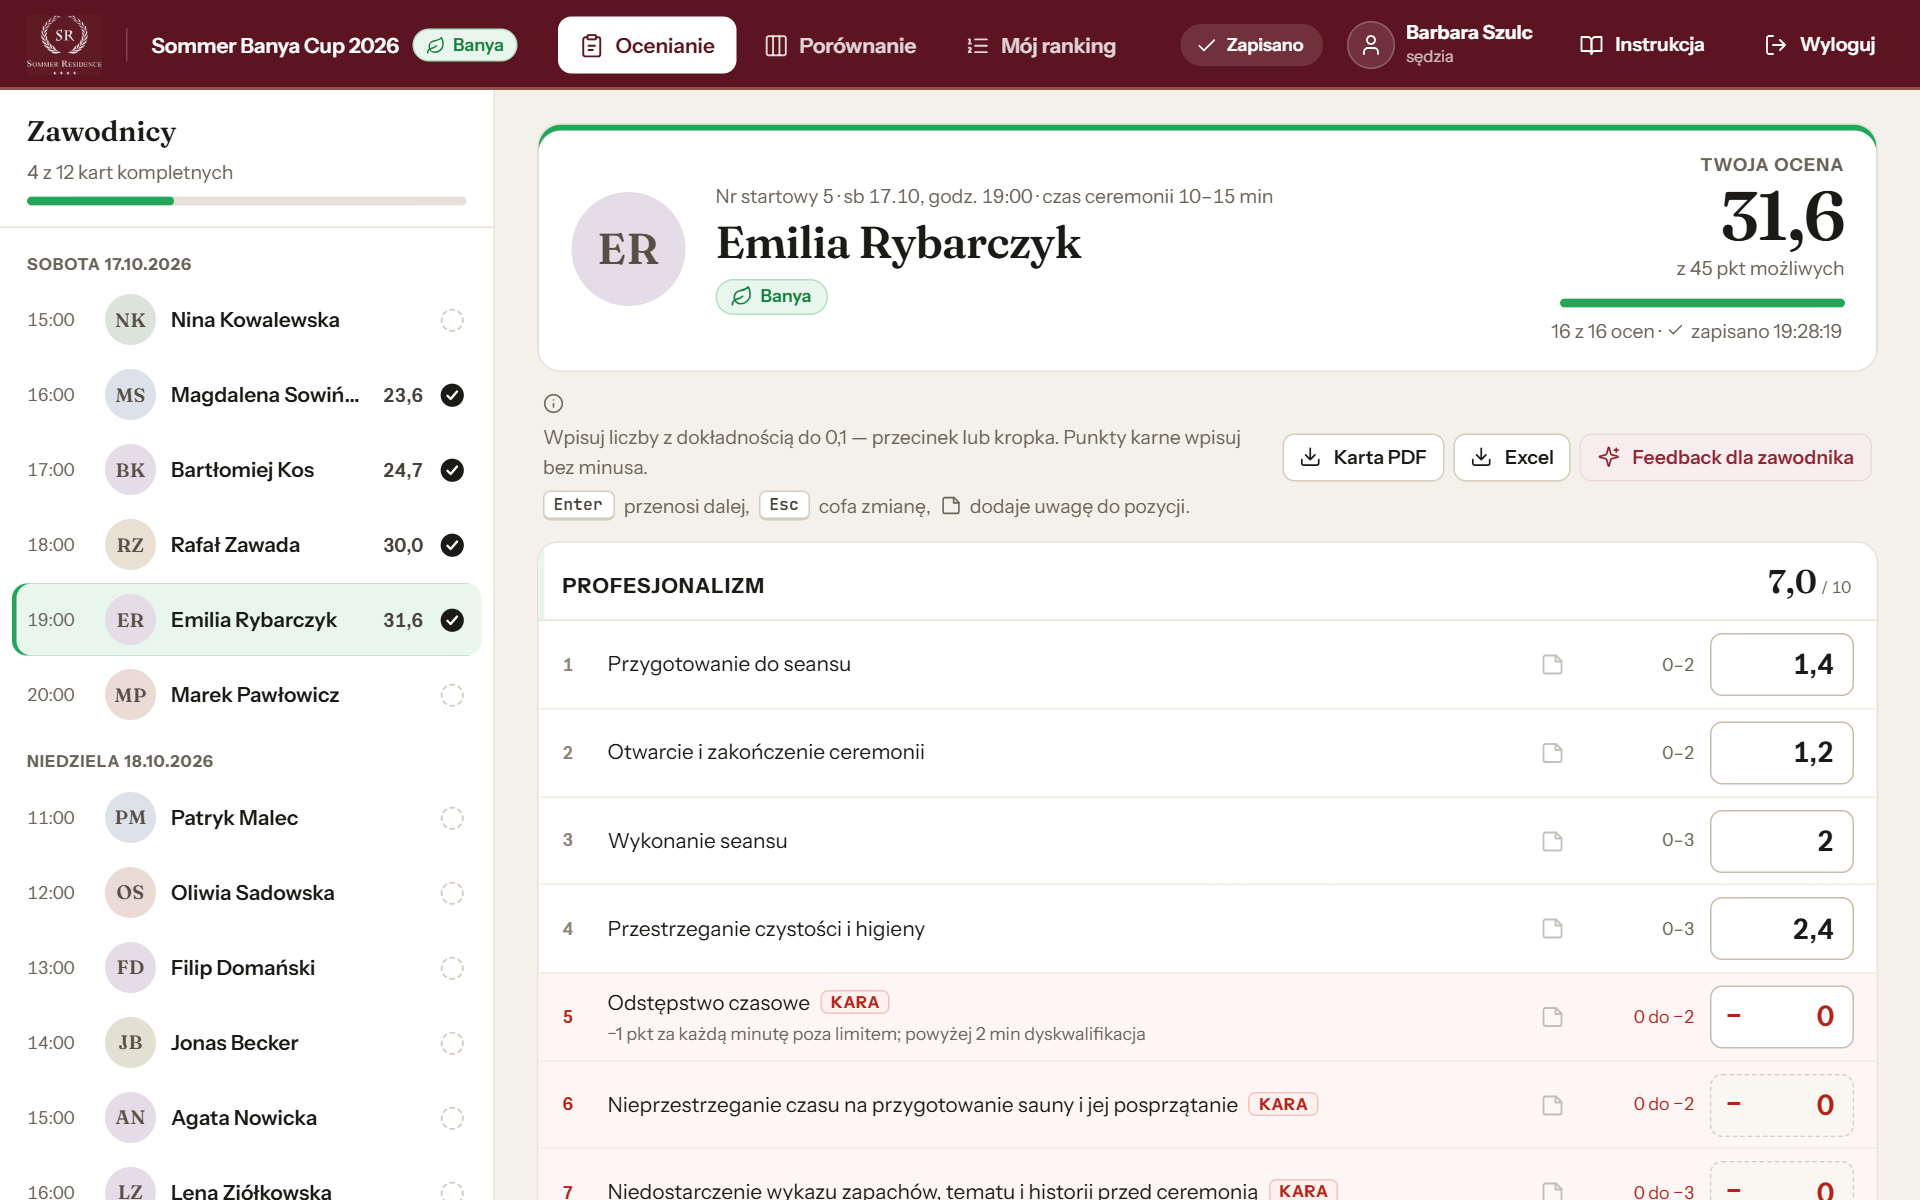
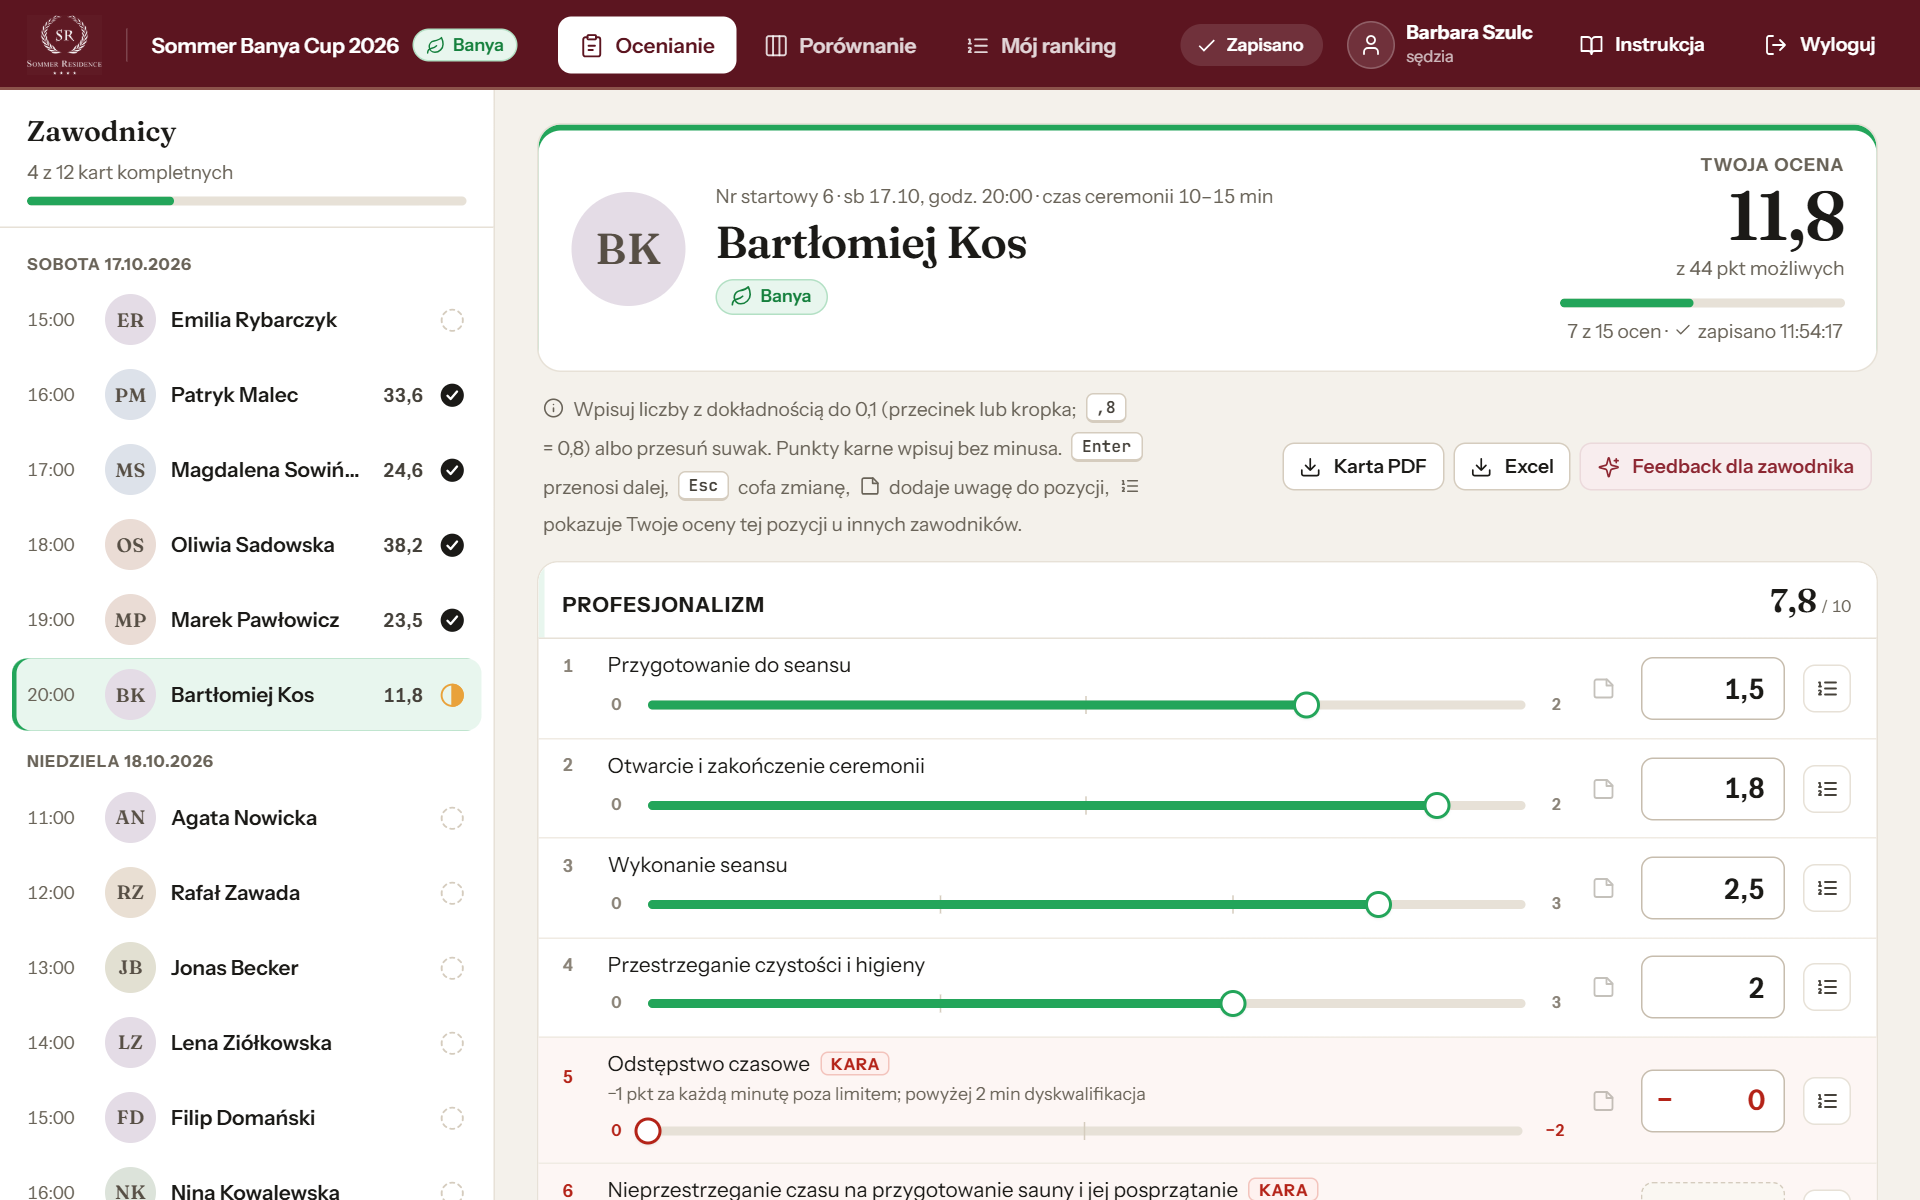
Turniej Trzech Saun: instrukcja dla sędziów — nowe funkcje karty
Suwak, przycisk ocen tej pozycji u innych zawodników, wpis „,8”, poprawianie ocen
w porównaniu, kary z suwakiem. Nowe zrzuty: ekran oceniania (9 znaczników),
wpisywanie, kary i uwagi, porównanie z poprawką, okienko ocen innych zawodników.
Skill: wskazówki do zrzutów elementów position: fixed i ustawiania danych demo.

diff --git a/turniej-trzech-saun/instrukcja/index.html b/turniej-trzech-saun/instrukcja/index.html
@@ -165,6 +165,8 @@
     <symbol id="i-arrow" viewBox="0 0 24 24"><path d="M5 12h14M13 5l7 7-7 7"/></symbol>
     <symbol id="i-note" viewBox="0 0 24 24"><path d="M15.5 3H5a2 2 0 0 0-2 2v14a2 2 0 0 0 2 2h14a2 2 0 0 0 2-2V8.5z"/><path d="M15 3v6h6"/></symbol>
     <symbol id="i-note-text" viewBox="0 0 24 24"><path d="M15.5 3H5a2 2 0 0 0-2 2v14a2 2 0 0 0 2 2h14a2 2 0 0 0 2-2V8.5z"/><path d="M15 3v6h6M7 12h6M7 16h9"/></symbol>
+    <symbol id="i-ranking" viewBox="0 0 24 24"><path d="M10 6h11M10 12h11M10 18h11M4 6h1v4M4 10h2M6 18H4c0-1 2-2 2-3s-1-1.5-2-1"/></symbol>
+    <symbol id="i-pencil" viewBox="0 0 24 24"><path d="M17 3a2.85 2.83 0 1 1 4 4L7.5 20.5 2 22l1.5-5.5Z"/></symbol>
     <symbol id="i-refresh" viewBox="0 0 24 24"><path d="M3 12a9 9 0 0 1 9-9 9.75 9.75 0 0 1 6.74 2.74L21 8"/><path d="M21 3v5h-5M21 12a9 9 0 0 1-9 9 9.75 9.75 0 0 1-6.74-2.74L3 16"/><path d="M8 16H3v5"/></symbol>
   </svg>
 
@@ -211,7 +213,8 @@
           <li><svg class="ic"><use href="#i-check"/></svg><span>Zaloguj się <b>kodem z kartki</b> od supervisora.</span></li>
           <li><svg class="ic"><use href="#i-check"/></svg><span>Wybierz zawodnika z <b>listy po lewej</b> i wpisuj punkty.</span></li>
           <li><svg class="ic"><use href="#i-check"/></svg><span>Zapis jest <b>automatyczny</b> — nie ma przycisku „Zapisz”.</span></li>
-          <li><svg class="ic"><use href="#i-check"/></svg><span>Liczby z dokładnością do <b>0,1</b> — przecinek albo kropka.</span></li>
+          <li><svg class="ic"><use href="#i-check"/></svg><span>Liczby z dokładnością do <b>0,1</b> — przecinek albo kropka; <kbd>,8</kbd> to 0,8. Zamiast wpisywać, możesz przesunąć <b>suwak</b> pod pozycją.</span></li>
+          <li><svg class="ic"><use href="#i-check"/></svg><span>Przycisk <svg class="ic"><use href="#i-ranking"/></svg> obok pola pokazuje <b>Twoje oceny tej pozycji</b> u zawodników ocenionych wcześniej.</span></li>
           <li><svg class="ic"><use href="#i-check"/></svg><span>Punkty karne wpisuj <b>bez minusa</b> — system sam je odejmie.</span></li>
           <li><svg class="ic"><use href="#i-check"/></svg><span><kbd>Enter</kbd> przenosi do następnego pola, <kbd>Esc</kbd> cofa zmianę.</span></li>
           <li><svg class="ic"><use href="#i-check"/></svg><span>Znacznik <span class="chip ok"><svg class="ic"><use href="#i-check"/></svg>Zapisano</span> u góry = wszystko jest w bazie.</span></li>
@@ -264,13 +267,15 @@
         <figure>
           <div class="shot">
             <img src="img/02-ekran-oceny.png" width="1920" height="1200" alt="Ekran oceniania: lista zawodników po lewej, karta oceny zawodnika po prawej" loading="lazy">
-            <span class="pin" style="left:19.3%;top:11%">1</span>
-            <span class="pin" style="left:24.5%;top:49%">2</span>
-            <span class="pin" style="left:36.5%;top:15%">3</span>
-            <span class="pin" style="left:80%;top:14%">4</span>
-            <span class="pin" style="left:82.2%;top:33.5%">5</span>
-            <span class="pin" style="left:80.8%;top:51.2%">6</span>
-            <span class="pin" style="left:93%;top:51.2%">7</span>
+            <span class="pin" style="left:25.3%;top:16.7%">1</span>
+            <span class="pin" style="left:21%;top:57.9%">2</span>
+            <span class="pin" style="left:36%;top:16.3%">3</span>
+            <span class="pin" style="left:88.2%;top:18%">4</span>
+            <span class="pin" style="left:65.5%;top:38.9%">5</span>
+            <span class="pin" style="left:83.5%;top:57.4%">6</span>
+            <span class="pin" style="left:89.1%;top:61.6%">7</span>
+            <span class="pin" style="left:62%;top:60.5%">8</span>
+            <span class="pin" style="left:95.1%;top:57.4%">9</span>
           </div>
           <figcaption>Ekran oceniania (wersja demonstracyjna, zawodnicy fikcyjni).</figcaption>
         </figure>
@@ -281,7 +286,9 @@
           <li><b class="k">4</b><span><b>Twoja ocena:</b> suma na bieżąco, postęp wypełniania i godzina ostatniego zapisu.</span></li>
           <li><b class="k">5</b><span><b>Karta PDF, Excel</b> i <b>Feedback dla zawodnika</b> — szkic, zatwierdzenie (rozdziały <a href="#karta">7</a> i <a href="#feedback">8</a>).</span></li>
           <li><b class="k">6</b><span><b>Uwaga do pozycji</b> — ikona notatnika (rozdział <a href="#uwagi">5</a>).</span></li>
-          <li><b class="k">7</b><span><b>Pole oceny</b> — obok widać dozwolony zakres, np. 0–2.</span></li>
+          <li><b class="k">7</b><span><b>Pole oceny</b> — wpisz liczbę, np. <kbd>1,5</kbd> albo <kbd>,8</kbd>.</span></li>
+          <li><b class="k">8</b><span><b>Suwak</b> — przeciągnij myszą albo palcem (co 0,1 pkt); na jego końcach widać dozwolony zakres, np. 0 i 2.</span></li>
+          <li><b class="k">9</b><span><b>Twoje oceny tej pozycji u innych zawodników</b> (rozdział <a href="#oceny">4</a>).</span></li>
         </ul>
         <h3>Stan karty na liście zawodników</h3>
         <p>
@@ -316,26 +323,46 @@
       <section id="oceny">
         <h2 class="sec"><span class="n">4</span>Wpisywanie ocen</h2>
         <ol class="steps">
-          <li>Kliknij w pole oceny i wpisz liczbę. Dozwolony zakres widać tuż obok pola (np. <b>0–2</b>).</li>
+          <li>Kliknij w pole oceny i wpisz liczbę (np. <kbd>1,5</kbd>; zamiast <kbd>0,8</kbd> wystarczy <kbd>,8</kbd>) — <b>albo przesuń suwak</b> pod nazwą pozycji. Dozwolony zakres widać na końcach suwaka (np. <b>0</b> i <b>2</b>).</li>
           <li>Naciśnij <kbd>Enter</kbd> (albo strzałkę w dół) — przejdziesz do następnej pozycji. <kbd>Shift</kbd> + <kbd>Enter</kbd> lub strzałka w górę wraca do poprzedniej.</li>
           <li>Ocena zapisuje się sama przy każdej zmianie. Suma kategorii i całej karty liczy się na bieżąco.</li>
           <li>Na dole karty przyciskiem <b>„Następny zawodnik”</b> przejdziesz dalej (albo wybierz zawodnika z listy).</li>
         </ol>
         <figure>
-          <div class="shot mid"><img src="img/04-wpisywanie.png" width="1341" height="890" alt="Kategoria Profesjonalizm z wpisanymi ocenami; w pozycji karnej wpisano -1 i pojawił się komunikat o wpisywaniu liczby bez minusa" loading="lazy"></div>
-          <figcaption>Kategoria z wpisanymi ocenami. W pozycji karnej ktoś wpisał „−1” — system od razu pokazuje komunikat.</figcaption>
+          <div class="shot mid"><img src="img/04-wpisywanie.png" width="1341" height="1005" alt="Kategoria Profesjonalizm z ocenami w polach i na suwakach; w pozycji karnej wpisano -1 i pojawił się komunikat o wpisywaniu liczby bez minusa" loading="lazy"></div>
+          <figcaption>Kategoria z wpisanymi ocenami — suwak pokazuje tę samą wartość co pole. W pozycji karnej ktoś wpisał „−1” — system od razu pokazuje komunikat.</figcaption>
         </figure>
+        <h3>Suwak</h3>
+        <ul>
+          <li><b>Kliknij albo stuknij</b> w wybrane miejsce suwaka — ocena ustawi się od razu. <b>Przeciągnij</b> w bok, żeby ją dopasować co 0,1 pkt. Pole obok i suma kategorii zmieniają się razem z suwakiem.</li>
+          <li>Na telefonie i tablecie <b>przewijanie strony palcem w górę i w dół nie zmienia ocen</b>, nawet gdy zaczniesz na suwaku — ocena zmienia się dopiero przy ruchu w bok albo po stuknięciu.</li>
+          <li>Z klawiatury (po kliknięciu suwaka): strzałki ±0,1, <kbd>PageUp</kbd> / <kbd>PageDown</kbd> ±1 pkt.</li>
+          <li>Dokładną wartość zawsze możesz też wpisać w pole — oba sposoby zapisują to samo.</li>
+        </ul>
+        <h3>Twoje oceny tej pozycji u innych zawodników</h3>
+        <p>Przycisk <svg class="ic"><use href="#i-ranking"/></svg> po prawej stronie pola otwiera okienko z ocenami, które w <b>tej samej pozycji</b> dałeś zawodnikom ocenionym wcześniej — żeby łatwiej trzymać jedną miarę. Widzisz tylko własne oceny.</p>
+        <figure>
+          <div class="shot narrow" style="max-width:360px"><img src="img/13-oceny-innych.png" width="510" height="480" alt="Okienko „Twoje oceny w tej pozycji” dla pozycji Wykonanie seansu: lista zawodników z ocenami i paskami, wyróżniony bieżący zawodnik, średnia" loading="lazy"></div>
+          <figcaption>Twoje oceny pozycji „Wykonanie seansu” u czterech zawodników; zawodnik oceniany teraz jest wyróżniony.</figcaption>
+        </figure>
+        <ul>
+          <li>Przełącznik <b>„Kolejność startowa” / „Najwyższa ocena”</b> zmienia kolejność listy. Na dole — liczba ocenionych i średnia.</li>
+          <li>Zawodnik, którego oceniasz teraz, jest wyróżniony. Gdy przy otwartym okienku przesuniesz suwak albo wpiszesz liczbę, jego ocena na liście zmienia się od razu.</li>
+          <li>Ikona notatnika na liście pokazuje Twoją uwagę do tej pozycji (najedź kursorem).</li>
+          <li>Zamykasz okienko krzyżykiem, klawiszem <kbd>Esc</kbd> albo klikając w inne miejsce karty. Dopóki nie ocenisz w tej pozycji żadnego innego zawodnika, przycisk jest nieaktywny.</li>
+        </ul>
         <h3>Zasady wpisywania</h3>
         <ul>
-          <li><b>Dokładność 0,1 pkt</b> — np. <kbd>1,5</kbd> albo <kbd>1.5</kbd>. Wpis <kbd>1,35</kbd> zostanie odrzucony. (Jeśli supervisor włączy tryb „tylko przecinek”, kropka będzie błędem.)</li>
+          <li><b>Dokładność 0,1 pkt</b> — np. <kbd>1,5</kbd> albo <kbd>1.5</kbd>. Zero przed przecinkiem można pominąć: <kbd>,8</kbd> = 0,8 (po wyjściu z pola zobaczysz „0,8”). Wpis <kbd>1,35</kbd> zostanie odrzucony. (Jeśli supervisor włączy tryb „tylko przecinek”, kropka będzie błędem.)</li>
           <li><b>Punkty karne</b> — wiersze z czerwoną etykietą <span class="tag-neg">KARA</span>. Wpisz <b>samą liczbę</b>, np. <kbd>1</kbd> za minutę przekroczenia czasu — minus system doda sam. Pustą karę traktuje jak zero.</li>
-          <li><b>Pozycje Tak / Nie</b> (np. „Użycie więcej niż 3 zapachów”) — kliknij <b>„Nie · 0”</b> albo <b>„Tak · 1”</b>. Ponowne kliknięcie zaznaczonej odpowiedzi czyści pole. Z klawiatury: <kbd>0</kbd>, <kbd>1</kbd> lub spacja.</li>
+          <li><b>Punkty karne</b> mają suwak od 0 do wartości ujemnej (np. 0 do −1) — przesuwasz go tak samo jak przy zwykłej pozycji.</li>
+          <li><b>Pozycje Tak / Nie</b> (jeśli supervisor ustawi taką na karcie) — kliknij <b>„Nie · 0”</b> albo <b>„Tak · …”</b>. Ponowne kliknięcie zaznaczonej odpowiedzi czyści pole. Z klawiatury: <kbd>0</kbd>, <kbd>1</kbd> lub spacja.</li>
           <li><b>Puste pole to brak oceny, a nie zero.</b> Karta jest kompletna, gdy wypełnisz wszystkie pozycje punktowe i Tak / Nie (kary mogą zostać puste).</li>
           <li><kbd>Esc</kbd> cofa zmianę w polu, w którym właśnie jesteś.</li>
         </ul>
         <figure>
-          <div class="shot mid"><img src="img/06-tak-nie-uwagi.png" width="1341" height="681" alt="Kategoria Naturalne aromaty z pozycją Tak/Nie, karą i polem Dodatkowe uwagi" loading="lazy"></div>
-          <figcaption>Pozycja Tak / Nie (4), kara (5) i „Dodatkowe uwagi” do kategorii.</figcaption>
+          <div class="shot mid"><img src="img/06-kary-uwagi.png" width="1341" height="767" alt="Kategoria Naturalne aromaty z suwakami, dwiema pozycjami karnymi i polem Dodatkowe uwagi" loading="lazy"></div>
+          <figcaption>Kary (4, 5) mają pole z minusem i suwak; pod kategorią — „Dodatkowe uwagi”.</figcaption>
         </figure>
         <div class="box warn"><svg class="ic"><use href="#i-alert"/></svg>
           <div>
@@ -370,7 +397,8 @@
       <section id="poprawki">
         <h2 class="sec"><span class="n">6</span>Poprawianie ocen</h2>
         <ul>
-          <li>Oceny możesz zmieniać w dowolnym momencie, <b>dopóki turniej trwa</b>. Wejdź na kartę zawodnika i wpisz nową wartość.</li>
+          <li>Oceny możesz zmieniać w dowolnym momencie, <b>dopóki turniej trwa</b>. Wejdź na kartę zawodnika i wpisz nową wartość (albo przesuń suwak).</li>
+          <li>Pojedynczą ocenę poprawisz też w zakładce <a href="#porownanie">„Porównanie”</a> — kliknij ją w tabeli. Zmiana trafia od razu do karty zawodnika.</li>
           <li>Aby usunąć ocenę, skasuj liczbę z pola.</li>
           <li>Każda zmiana zapisuje się w <b>historii zmian</b>, którą widzi supervisor. To normalne — nie musisz niczego wyjaśniać.</li>
           <li>Gdy supervisor zakończy turniej, karty są <b>tylko do odczytu</b> (komunikat „Turniej jest zakończony — karta jest tylko do odczytu”). Feedback nadal możesz przygotować.</li>
@@ -446,10 +474,11 @@
           <li>Zaznacz od 2 do 6 zawodników (na start system zaznacza trzech ostatnich w kolejności startu, którym wpisałeś już oceny). <b>„Wyczyść wybór”</b> odznacza wszystkich, a <b>×</b> nad kolumną usuwa jednego zawodnika.</li>
           <li>Zielone tło i pogrubienie oznaczają najwyższą notę w wierszu. Przy dwóch zawodnikach pojawia się kolumna z różnicą.</li>
           <li>Ikona przy wartości pokazuje Twoją uwagę — wystarczy najechać kursorem.</li>
+          <li><b>Poprawka w tabeli:</b> kliknij ocenę pozycji (po najechaniu pojawia się ołówek <svg class="ic"><use href="#i-pencil"/></svg>), wpisz nową wartość i naciśnij <kbd>Enter</kbd>; <kbd>Esc</kbd> anuluje. Zmiana od razu trafia do karty zawodnika, sum i historii zmian. Błędna wartość nie zostanie zapisana — pod polem pojawi się komunikat.</li>
         </ol>
         <figure>
-          <div class="shot"><img src="img/11-porownanie.png" width="1600" height="925" alt="Porównanie trzech zawodników: wybór zawodników i tabela ocen pozycja po pozycji z wyróżnieniem najwyższych not" loading="lazy"></div>
-          <figcaption>Porównanie trzech zawodników.</figcaption>
+          <div class="shot"><img src="img/11-porownanie.png" width="1920" height="990" alt="Porównanie trzech zawodników: wybór zawodników, podpowiedź o poprawianiu ocen i tabela ocen z otwartym polem poprawki w kolumnie trzeciego zawodnika" loading="lazy"></div>
+          <figcaption>Porównanie trzech zawodników — w ostatniej kolumnie sędzia poprawia ocenę „Wykonanie seansu” na 2,7.</figcaption>
         </figure>
       </section>
 
@@ -526,11 +555,11 @@
         <details><summary>Czy inni sędziowie widzą moje oceny?</summary>
           <div><p>Nie. Widzisz wyłącznie własne karty. Supervisor widzi karty wszystkich sędziów na bieżąco.</p></div></details>
         <details><summary>Czy mogę oceniać na telefonie lub tablecie?</summary>
-          <div><p>System działa na tablecie i telefonie, ale do oceniania zalecamy laptop — karta jest długa, a z klawiaturą wpisywanie jest najszybsze.</p></div></details>
+          <div><p>System działa na tablecie i telefonie, ale do oceniania zalecamy laptop — karta jest długa, a z klawiaturą wpisywanie jest najszybsze. Na ekranie dotykowym wygodny jest suwak pod każdą pozycją; dokładną wartość zawsze możesz wpisać w pole.</p></div></details>
       </section>
     </main>
   </div>
 
-  <footer class="end">Sommer Residence Spa &amp; Wellness · Turniej Trzech Saun · instrukcja dla sędziów, wersja z 15.10.2026</footer>
+  <footer class="end">Sommer Residence Spa &amp; Wellness · Turniej Trzech Saun · instrukcja dla sędziów, wersja z 18.10.2026</footer>
 </body>
 </html>

diff --git a/.claude/skills/turniej-trzech-saun/reference/instrukcja-sedziow.md b/.claude/skills/turniej-trzech-saun/reference/instrukcja-sedziow.md
@@ -47,7 +47,14 @@ czcionki, ikony), a pliki odbiera lokalny serwer.
    await shot(document.querySelector('.app'), '02-ekran-oceny.png', { w: 1280, h: 800 });
    ```
    Wycinki: `.login-card`, `.topbar`, `.sc-cat` (tło `#ffffff`), `.modal` (zostaw `bg` domyślne),
-   `.app-body .page` (porównanie, ranking). Długie okna przycinaj opcjami `w` / `h`.
+   `.app-body .page` (porównanie, ranking), `.peer-pop` (okienko ocen innych zawodników). Długie okna przycinaj
+   opcjami `w` / `h`. Elementy z `position: fixed` (np. `.peer-pop`) wychodzą puste — wołaj `htmlToImage.toBlob`
+   bezpośrednio z opcją `style: { position: 'static', left: 'auto', top: 'auto', boxShadow: 'none' }`.
+   Wartości na karcie do zrzutów najprościej ustawić z konsoli: `const s = await import('/turniej-trzech-saun/js/store.js');
+   s.setScore('bny26', 'banya', '<id zawodnika>', 'bny26-j1', '<id pozycji>', 15)` (dziesiąte części); dane demo resetuje
+   `s.store.reset()` (bez okna potwierdzenia).
+   Zrzuty z 2026-10-18: `02-ekran-oceny.png` (Bartłomiej Kos, karta w trakcie), `04-wpisywanie.png` (błąd „−1”),
+   `06-kary-uwagi.png`, `11-porownanie.png` (otwarte pole poprawki), `13-oceny-innych.png`.
 5. Numerowane znaczniki na zrzutach (`<span class="pin" style="left:…%;top:…%">`) liczy się z
    `getBoundingClientRect()` elementów w oknie 1280×800 (procent szerokości / wysokości kadru).
    Po zmianie układu ekranu sprawdź, czy znaczniki dalej wskazują właściwe miejsca.

diff --git a/.claude/skills/turniej-trzech-saun/SKILL.md b/.claude/skills/turniej-trzech-saun/SKILL.md
@@ -160,6 +160,8 @@ Najnowsze na górze. Każdy wpis: data — co — dlaczego.
   z `demoKey`), `js/seed.js` (`SEED_VERSION` 4), `css/app.css` (reguły z bety wpięte w miejsce starych). Bez zmian w bazie
   i w `remote.js`; kształt danych bez zmian — wystawione oceny nietknięte. Beta wyczyszczona (bez podmienionych modułów).
   Po wdrożeniu: Ctrl+F5 u sędziów i supervisora. Opis funkcji: [reference/architektura.md](reference/architektura.md).
+  Instrukcja dla sędziów (wersja z 18.10.2026): suwak, przycisk ocen innych zawodników, „,8”, poprawki w porównaniu, kary
+  z suwakiem; nowe zrzuty 02, 04, 06 (`06-kary-uwagi.png` zamiast `06-tak-nie-uwagi.png`), 11 i nowy 13.
 
 - **2026-10-18** — `demo-beta/`: „Użycie więcej niż 3 zapachów (/ kompozycji)” (`z4`) we wszystkich kartach wzorcowych to kara
   (`minus`, maks. 1) zamiast „Tak / Nie” (`demo-beta/js/templates.js`). Beta ma własne dane przykładowe (`demoKey`
